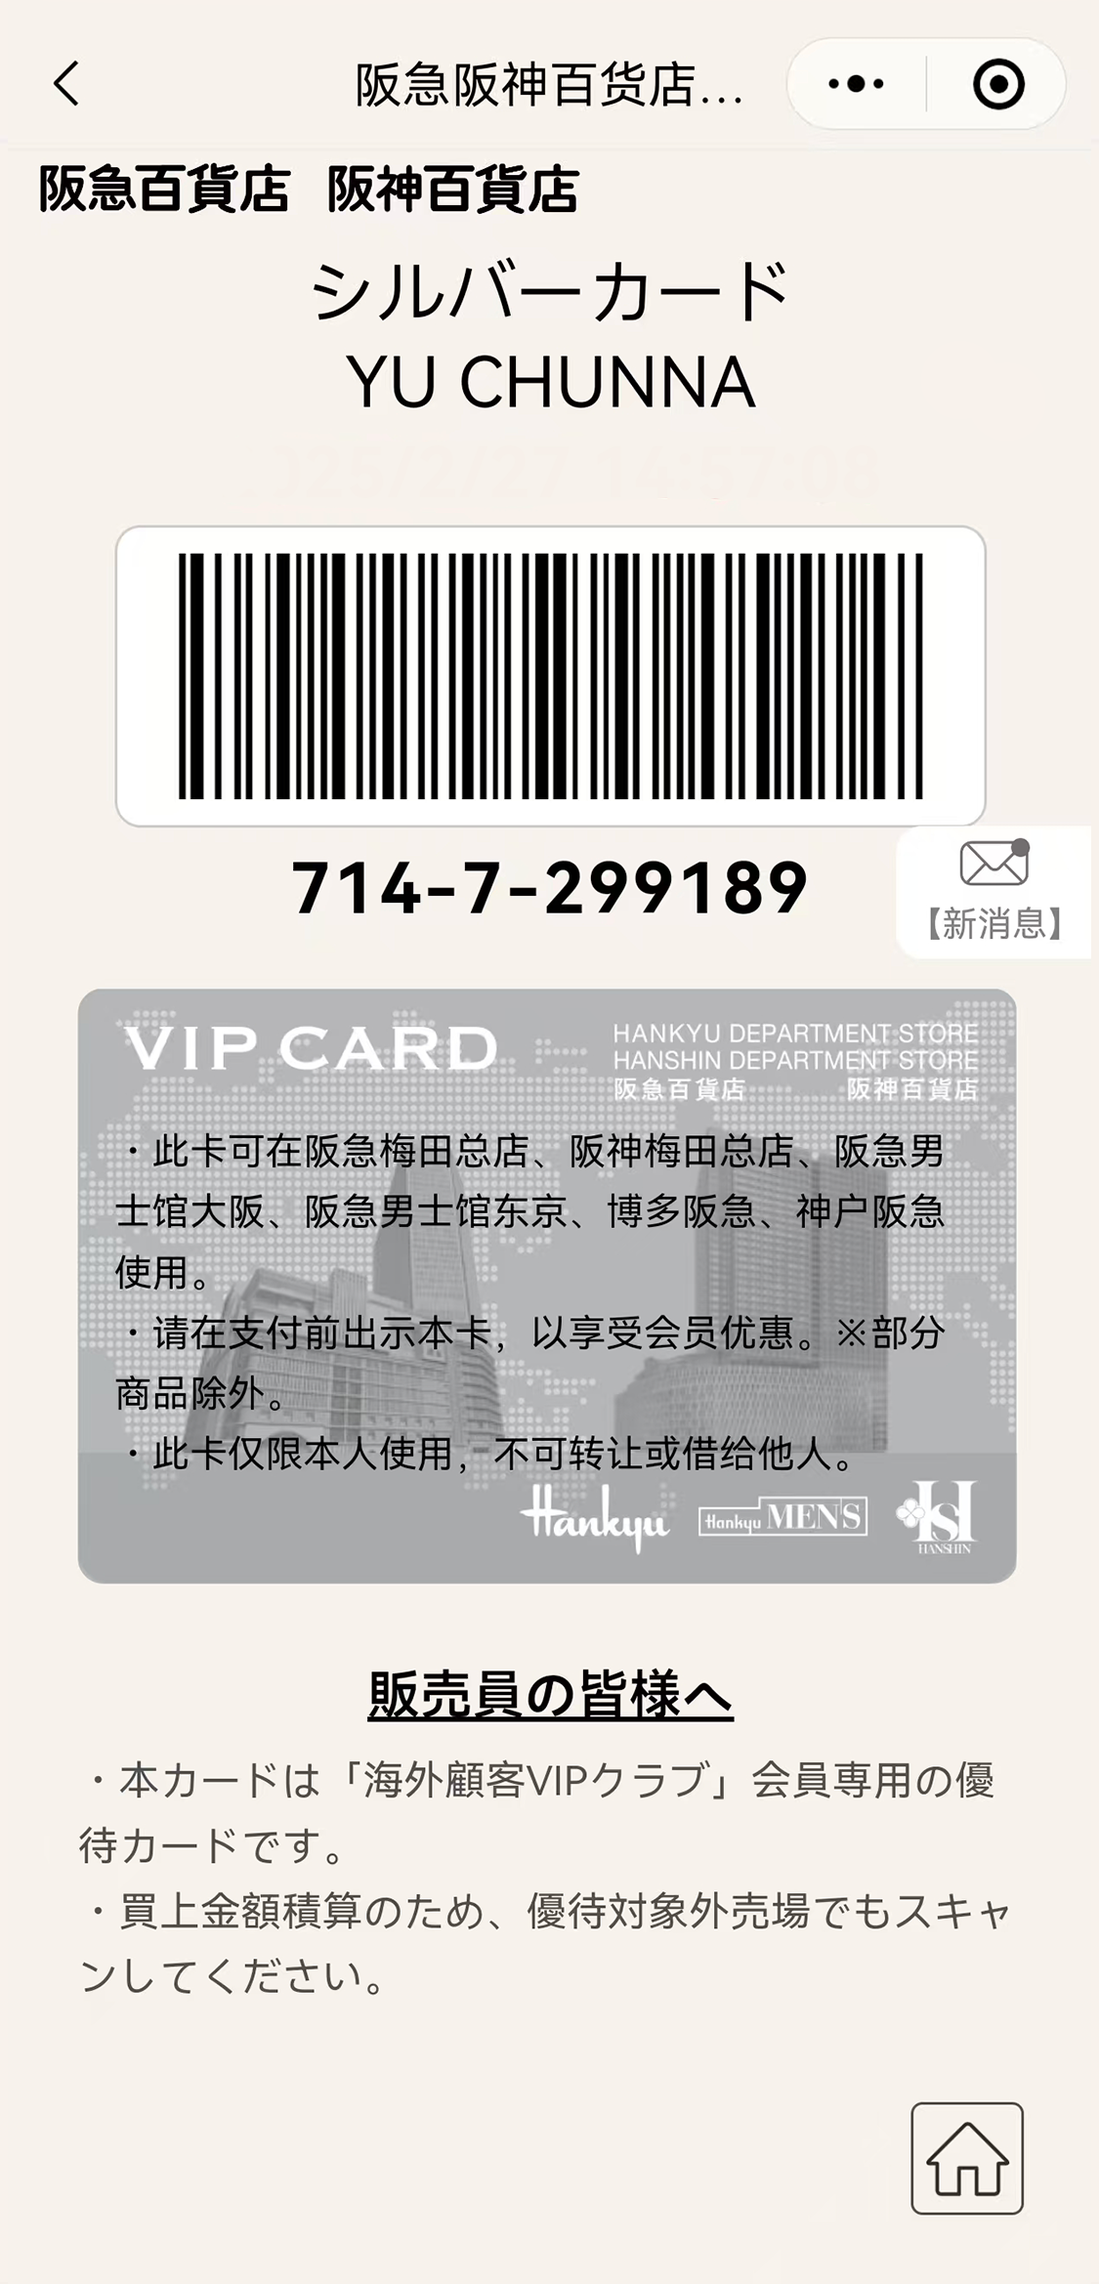
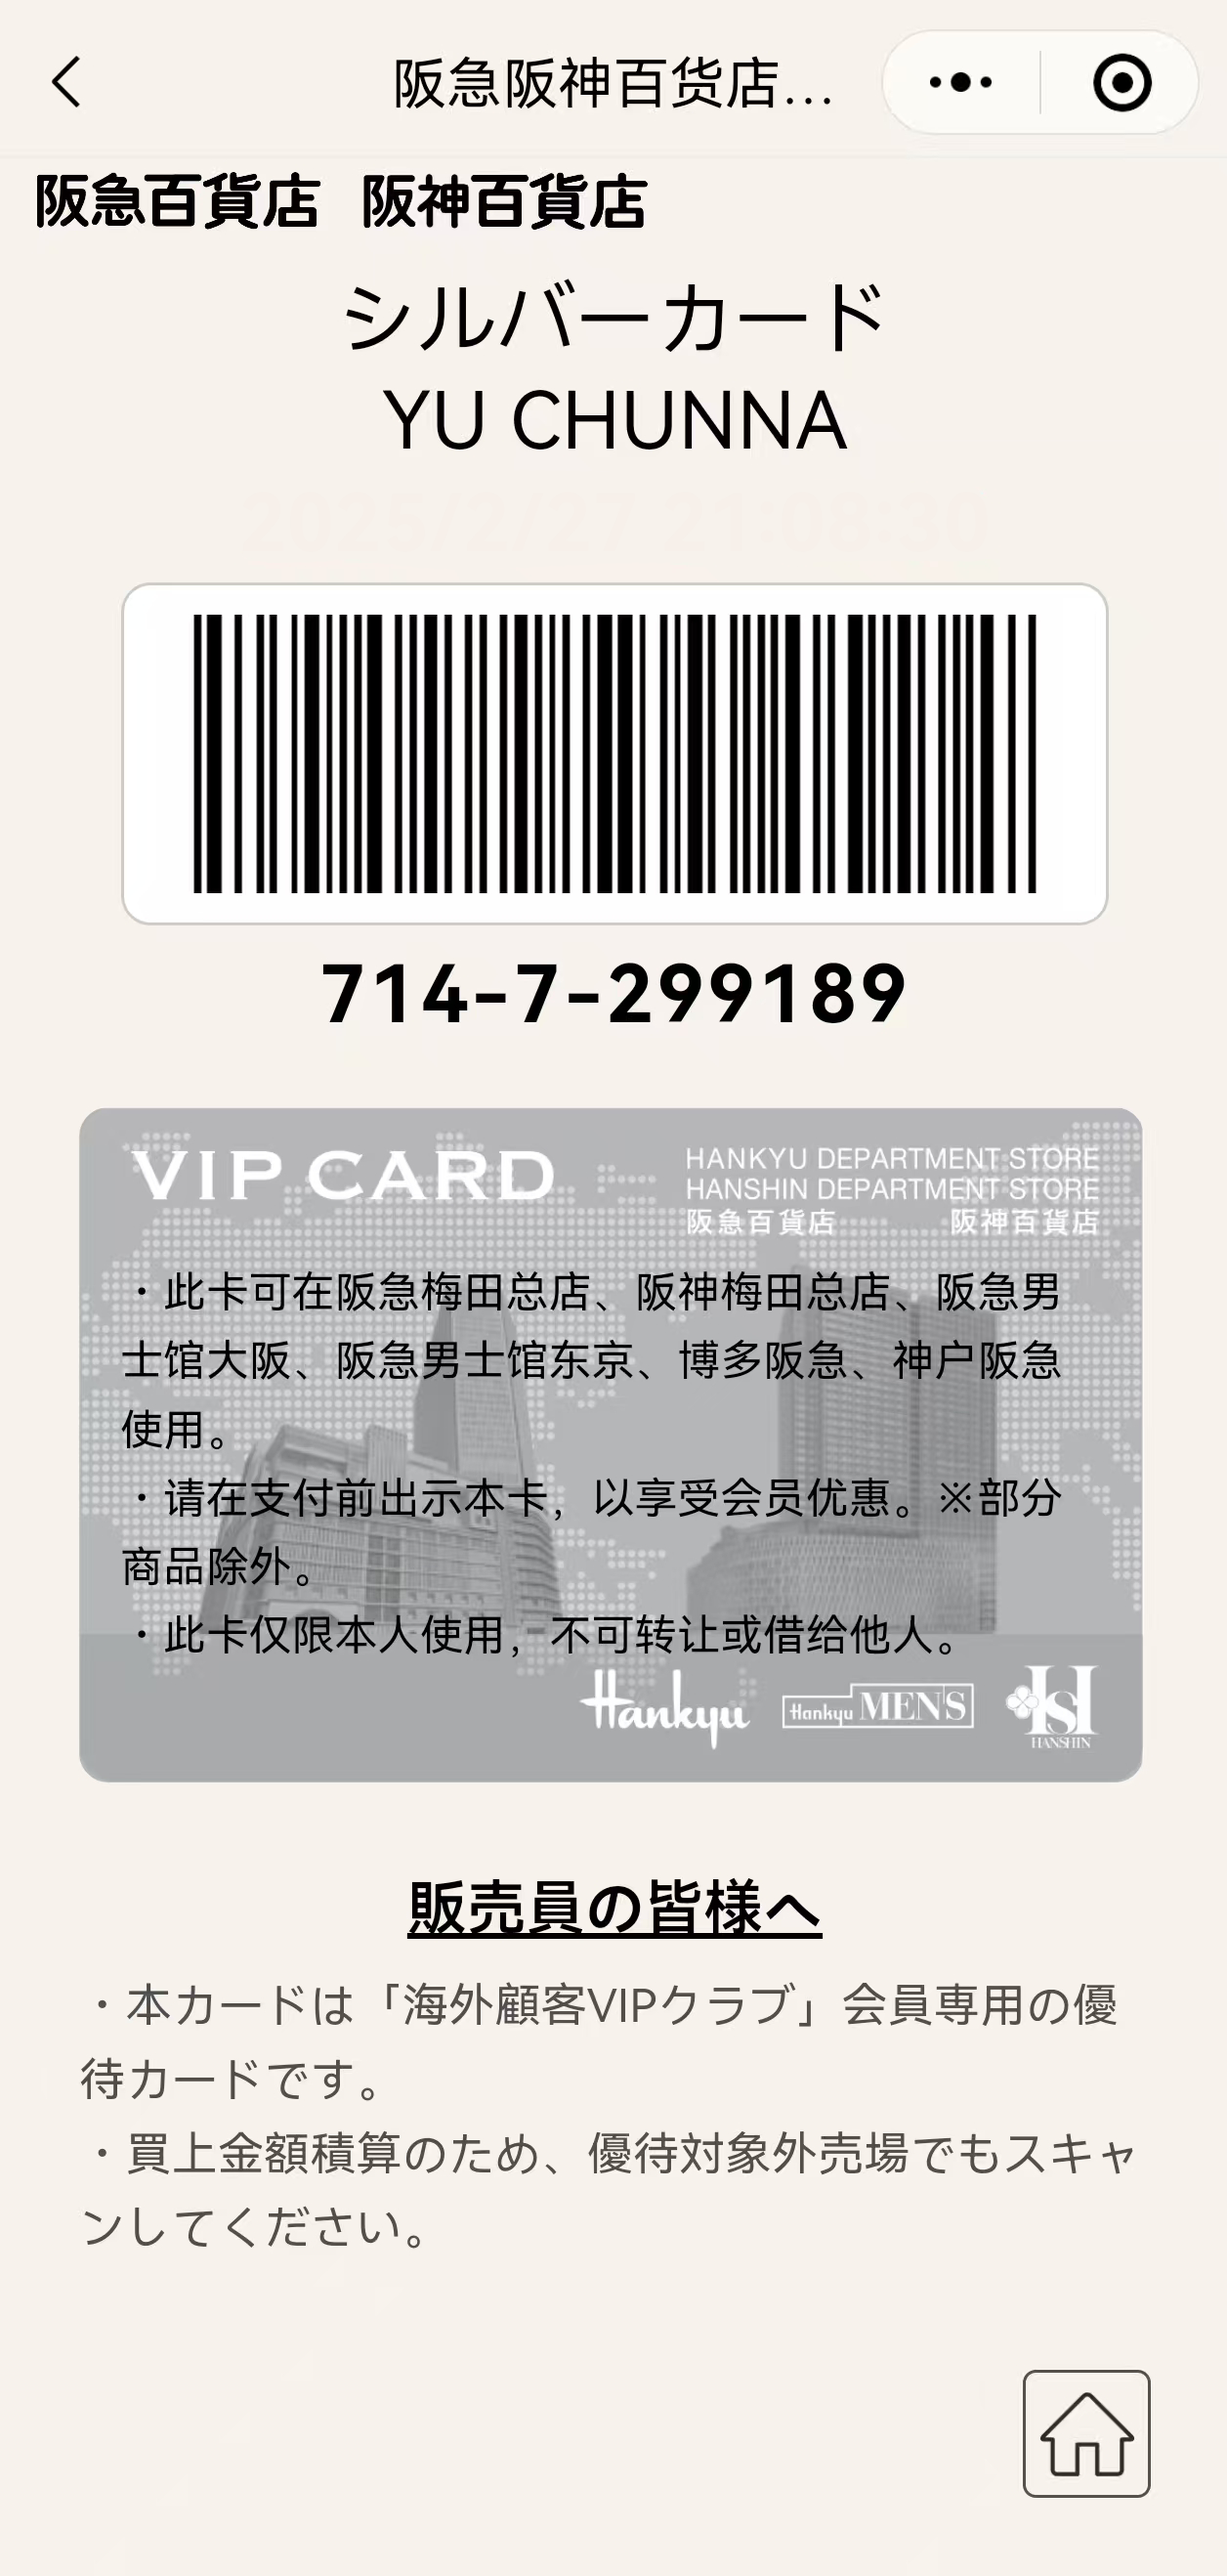
update

diff --git a/silver_yuchunyang.html b/silver_yuchunyang.html
@@ -1,0 +1,61 @@
+<!DOCTYPE html>
+<html lang="en">
+<head>
+    <meta charset="UTF-8">
+    <meta name="viewport" content="width=device-width, initial-scale=1.0">
+    <title>阪急阪神百货店VIP会员</title>
+    <style>
+        body {
+            background-color: #f7f2ed;
+            margin: 0;
+            padding: 0;
+        }
+        .vertical-images {
+            display: flex;
+            flex-direction: column;
+            align-items: center;
+            position: relative;
+        }
+        .vertical-images img {
+            max-width: 100%;
+            height: auto;
+            margin: 0;
+        }
+        .datetime {
+            position: absolute;
+            top: 19%; /* 1/4 position from the top of the image */
+            left: 50%;
+            transform: translateX(-50%);
+            color: rgb(246, 7, 7);
+            font-size: 1.45em; /* Relative font size */
+            font-weight: bold;
+            font-family: system-ui;
+            white-space: nowrap; /* Prevent line break */
+        }
+    </style>
+</head>
+<body>
+    <div class="vertical-images">
+        <div class="datetime" id="datetime"></div>
+        <img src="img/yusilver.png" alt="Image 1">
+    </div>
+    <script>
+        function updateDateTime() {
+            const now = new Date();
+            const year = now.getFullYear();
+            const month = String(now.getMonth() + 1).padStart(2, '0');
+            const day = String(now.getDate()).padStart(2, '0');
+            const hours = String(now.getHours()).padStart(2, '0');
+            const minutes = String(now.getMinutes()).padStart(2, '0');
+            const seconds = String(now.getSeconds()).padStart(2, '0');
+            const formattedDateTime = `${year}/${month}/${day} ${hours}:${minutes}:${seconds}`;
+            document.getElementById('datetime').textContent = formattedDateTime;
+        }
+
+        // Update the date and time every second
+        setInterval(updateDateTime, 1000);
+        // Initial call to display the date and time immediately upon loading
+        updateDateTime();
+    </script>
+</body>
+</html>

diff --git a/gold_yuchunyang.html b/gold_yuchunyang.html
@@ -1,0 +1,61 @@
+<!DOCTYPE html>
+<html lang="en">
+<head>
+    <meta charset="UTF-8">
+    <meta name="viewport" content="width=device-width, initial-scale=1.0">
+    <title>阪急阪神百货店VIP会员</title>
+    <style>
+        body {
+            background-color: #f7f2ed;
+            margin: 0;
+            padding: 0;
+        }
+        .vertical-images {
+            display: flex;
+            flex-direction: column;
+            align-items: center;
+            position: relative;
+        }
+        .vertical-images img {
+            max-width: 100%;
+            height: auto;
+            margin: 0;
+        }
+        .datetime {
+            position: absolute;
+            top: 19%; /* 1/4 position from the top of the image */
+            left: 50%;
+            transform: translateX(-50%);
+            color: rgb(246, 7, 7);
+            font-size: 1.45em; /* Relative font size */
+            font-weight: bold;
+            font-family: system-ui;
+            white-space: nowrap; /* Prevent line break */
+        }
+    </style>
+</head>
+<body>
+    <div class="vertical-images">
+        <div class="datetime" id="datetime"></div>
+        <img src="img/yugold.png" alt="Image 1">
+    </div>
+    <script>
+        function updateDateTime() {
+            const now = new Date();
+            const year = now.getFullYear();
+            const month = String(now.getMonth() + 1).padStart(2, '0');
+            const day = String(now.getDate()).padStart(2, '0');
+            const hours = String(now.getHours()).padStart(2, '0');
+            const minutes = String(now.getMinutes()).padStart(2, '0');
+            const seconds = String(now.getSeconds()).padStart(2, '0');
+            const formattedDateTime = `${year}/${month}/${day} ${hours}:${minutes}:${seconds}`;
+            document.getElementById('datetime').textContent = formattedDateTime;
+        }
+
+        // Update the date and time every second
+        setInterval(updateDateTime, 1000);
+        // Initial call to display the date and time immediately upon loading
+        updateDateTime();
+    </script>
+</body>
+</html>

diff --git a/silver_yuchunna.html b/silver_yuchunna.html
@@ -1,0 +1,61 @@
+<!DOCTYPE html>
+<html lang="en">
+<head>
+    <meta charset="UTF-8">
+    <meta name="viewport" content="width=device-width, initial-scale=1.0">
+    <title>阪急阪神百货店VIP会员</title>
+    <style>
+        body {
+            background-color: #f7f2ed;
+            margin: 0;
+            padding: 0;
+        }
+        .vertical-images {
+            display: flex;
+            flex-direction: column;
+            align-items: center;
+            position: relative;
+        }
+        .vertical-images img {
+            max-width: 100%;
+            height: auto;
+            margin: 0;
+        }
+        .datetime {
+            position: absolute;
+            top: 19%; /* 1/4 position from the top of the image */
+            left: 50%;
+            transform: translateX(-50%);
+            color: rgb(246, 7, 7);
+            font-size: 1.45em; /* Relative font size */
+            font-weight: bold;
+            font-family: system-ui;
+            white-space: nowrap; /* Prevent line break */
+        }
+    </style>
+</head>
+<body>
+    <div class="vertical-images">
+        <div class="datetime" id="datetime"></div>
+        <img src="img/silver.png" alt="Image 1">
+    </div>
+    <script>
+        function updateDateTime() {
+            const now = new Date();
+            const year = now.getFullYear();
+            const month = String(now.getMonth() + 1).padStart(2, '0');
+            const day = String(now.getDate()).padStart(2, '0');
+            const hours = String(now.getHours()).padStart(2, '0');
+            const minutes = String(now.getMinutes()).padStart(2, '0');
+            const seconds = String(now.getSeconds()).padStart(2, '0');
+            const formattedDateTime = `${year}/${month}/${day} ${hours}:${minutes}:${seconds}`;
+            document.getElementById('datetime').textContent = formattedDateTime;
+        }
+
+        // Update the date and time every second
+        setInterval(updateDateTime, 1000);
+        // Initial call to display the date and time immediately upon loading
+        updateDateTime();
+    </script>
+</body>
+</html>
